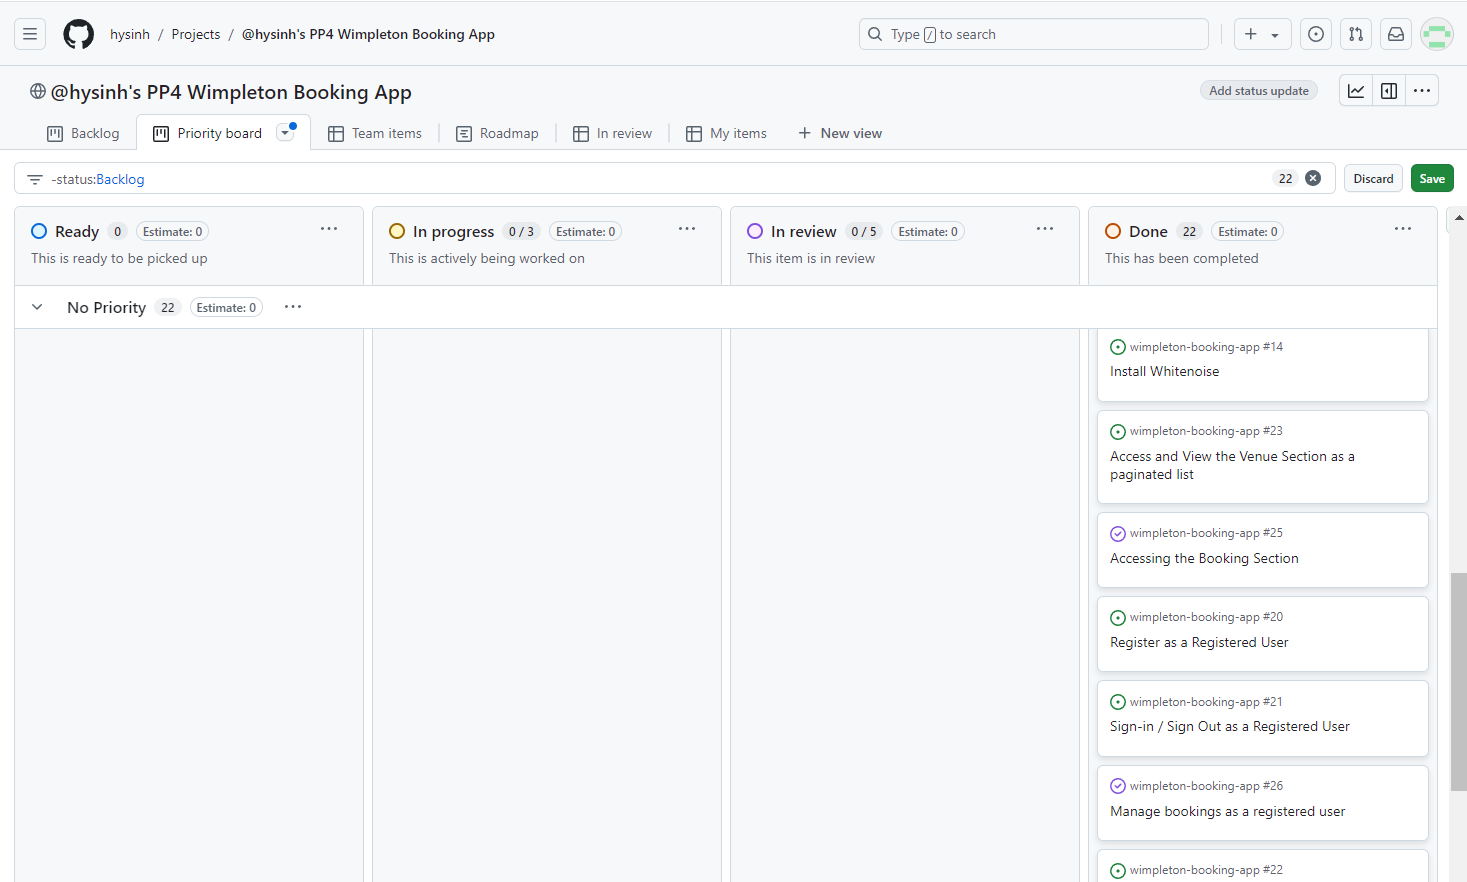
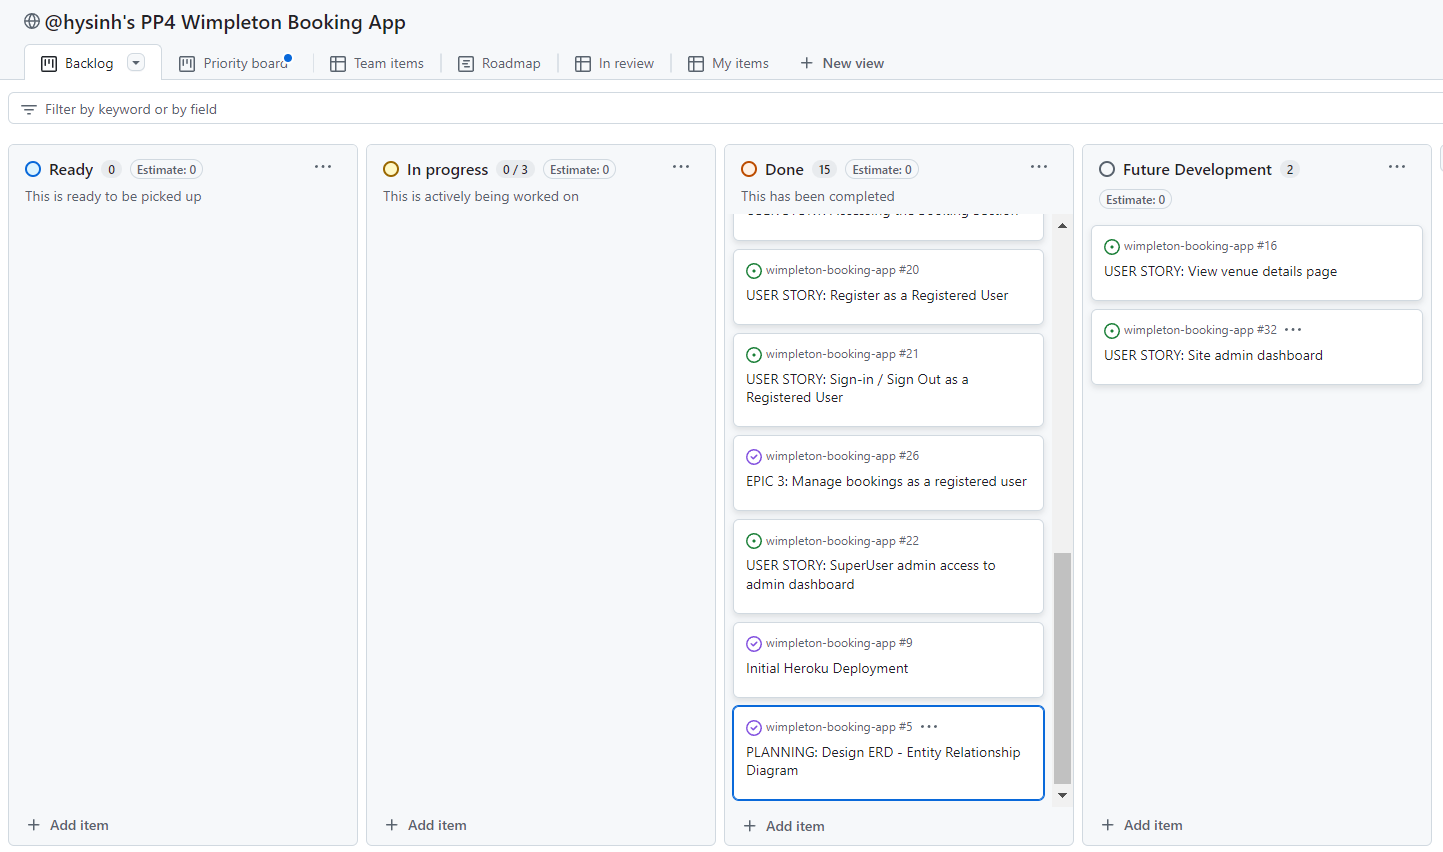
Update agile and issues section of README.md

diff --git a/README.md b/README.md
@@ -9,16 +9,17 @@ Wimpleton House Booking website is a full-stack web application created with HTM
 ## CONTENTS  
   
 * [User Experience](#user-experience)
+  * [Project Goals](#project-goals)
   * [User Stories](#user-stories)
   * [Site Admin Stories](#site-admin-stories)
 * [Agile Methodology](#agile-methodology)
   * [Kanban Board](#kanban-board)
   * [UI Design](#design)
-  * [Flowchart](#flowchart)
+  * [Database Design](#database-design)
 * [Features](#features)
-* [Future Features](#future-features)
+* [Future Development](#future-development)
 * [Technologies](#technologies)
-  * [Languages Used](#languages-used)
+  * [Languages and Libraries Used](#languages-and-libraries-used)
   * [Technologies and Programs Used](#technologies-and-programs-used)
   * [Deployment](#deployment)
 * [Testing](#testing)
@@ -39,7 +40,7 @@ Although some events may be one-off events like a wedding, the estate has a goal
   - Create an admin portal where staff could manage the venues and the bookings of all clients
   - Create a website that was responsive and attractive
 
-- ### Visitor Goal
+- ### Visitor Goals
   As a user, I want to easily view potential venue hire options at the Wimpleton House estate, to create a booking, and to view and manage all my bookings.
 
 - ### User Stories
@@ -66,14 +67,49 @@ Although some events may be one-off events like a wedding, the estate has a goal
 ## Agile Methodology
 The Agile Methodology was the project management approach used for this project. I attempted to break the project into phases and followed a cycle of planning, executing, and evaluating. To be honest, this was probably the most challenging part of the project for two reasons. First, it was the least interesting and enjoyable and secondly, I found it difficult to design effective user stories for the project. Since I was simultaneously writing user stories and trying to learn how to implement a Django web framework, I realised that I didn't know exactly how things would flow and how to ask the right questions to get the results I needed.
 
-As I wrote the stories, everything seemed equally important and dependent on each other. I set a plan for 2 week iterations but I found it difficult to stick to any of these stages as some things went smoothly and other areas, I would get stuck or need to go back and revise things that weren't working properly. Looking back, I think I would redesign the user stories to be broken down into smaller more manageable sections instead of grouping functionality together.
+As I wrote the stories, almost everything seemed equally important and dependent on each other. I set a plan for 2 week iterations or sprints but I found it difficult to stick to any of these stages as some things went smoothly and other areas, I would get stuck or need to go back and revise things that weren't working properly. I found it very difficult to gauge how many story points something would take. Looking back, I think I would redesign the user stories to be broken down into smaller more manageable sections instead of grouping functionality together. Even so, assigning accurate story points to items that I was only designing and implementing for the first time would be challenging.
+
+All issues/user stories began in the Backlog section. As I got to a section, I moved issues from the backlog into the "Ready" section and as I began work on that specific issue, I moved it into the "In progress" section. As issues were resolved, they were moved into the "Done" column.
+
+I also implemented the MoSCoW prioritisation scheme (Must Have, Should Have, Could Have, and Won't Have). However, when attempted to implement this, most of my user stories fell into the "Must have" criteria.
+
+I also found it challenging to organise the EPICs and the user stories effectively in the GitHub Project tool. I tried a couple of different ways, but it got a bit messy. Now that I have tried to utilize this tool for a project, I hope that my next project's Kanban board will go more smoothly and be more clear and effective.
+
 - ### Kanban Board 
-  I used the github projects space to design a [Kanban Board](https://github.com/users/hysinh/projects/5)
+  I used the GitHub Project board to design and manage a [Kanban Board](https://github.com/users/hysinh/projects/5)
   <details >
   <summary>Kanban Board screenshot</summary>  
 
   ![Kanban Board screenshot](documentation/readme/screenshot_kanban.png)
   </details>
+
+- ### Issues
+  I had 18 issues:
+  - 3 Epics:
+    - Research and Planning for app
+    - Set up and Build App and Public Pages
+    - Build CRUD Functionality
+  - Must Haves
+    - Manage bookings as site admin
+    - Manage bookings as a registered user
+    - Create Venue options as site admin
+    - Accessing the booking section
+    - Adding authentication to app
+    - Design the ERD
+    - Planning for application
+    - Initial App Research
+    - Create all the public pages for booking app
+    - Register as a registered user
+    - Sign in and out as a registered user
+    - Access the public pages
+    - Supepruser admin access to admin dashboard
+    - Initial Heroku Deployment
+  - Should Haves
+    - Deletion of Booking confirmation message
+    - Confirmation messages for bookings
+  - Could Haves
+    - Staff dashboard
+    - View venue details page
 
 ### UI Design
   I created some rough wireframes when first planning the website and a flowchart. I had three basic variations with consideration to reponsive design for the mobile, tablet, and desktop layouts. After roughing out what I wanted for the general layouts and content, I created a mockup for the overall look and feel for the site in Adobe Photoshop. I also designed the Entity Relationship Diagrams and considered how each model would interact with the others.
@@ -111,12 +147,13 @@ As I wrote the stories, everything seemed equally important and dependent on eac
   ![color scheme](documentation/readme/screenshot_fontfamilies.png)
   </details>
 
-### Postgres Database / Model Design
-  <details >
-  <summary>Entity Relationship Diagrams</summary>  
+### Database Design
+Custom models were created for Venues, Bookings, and Contacts. A venue can have many bookings. A booking can only have one client and one venue.
+<details >
+<summary>Entity Relationship Diagrams</summary>  
 
-  ![ERDs](documentation/readme/screenshot_ERDs.png)
-  </details>
+![ERDs](documentation/readme/screenshot_ERDs.png)
+</details>
   
 
 
@@ -167,7 +204,7 @@ The About page provides basic information about Wimpleton House and emphasises i
 <details>
 <summary>About page</summary>
 
-![about page](link)
+![about page](documentation/readme/features/screenshot_about.png)
 </details>
 
 ### Contact Page
@@ -175,7 +212,17 @@ The Contact page features basic contact information for the Wimplton House inclu
 <details>
 <summary>Contact Page</summary>
 
-![contact page](link)
+![contact page](documentation/readme/features/screenshot_contact_page.png)
+</details>
+<details>
+<summary>Google Maps</summary>
+
+![contact page](documentation/readme/features/screenshot_contact_map.png)
+</details>
+<details>
+<summary>Contact form</summary>
+
+![contact page](documentation/readme/features/screenshot_contact_contactform.png)
 </details>
 
 ### Booking Dashboard
@@ -378,14 +425,14 @@ If there is a server error, a 500 Error page will display.
   - Photo by Pixabay: https://www.pexels.com/photo/steel-gate-of-brown-brick-building-159490/
   - Photo by Victoria Strelka_ph: https://www.pexels.com/photo/bride-and-groom-walking-towards-the-church-12194355/
 - #### Code resources
-- Getting a json file output of object
-  https://sentry.io/answers/creating-a-json-response-using-django-and-python/
-- Comparing dates - strings vs objects
-  https://stackoverflow.com/questions/15311222/comparing-dates-stored-as-strings-in-django
-- Accessing django properties
-  https://dev.to/doridoro/django-model-properties-28ac
-- How to compare dates in django
-  https://stackoverflow.com/questions/3798812/how-to-compare-dates-in-django-templates
-- 404 custom and 500 pages with handler url
-  https://stackoverflow.com/questions/20581017/django-custom-404-page-not-working
+  - Getting a json file output of object
+    https://sentry.io/answers/creating-a-json-response-using-django-and-python/
+  - Comparing dates - strings vs objects
+    https://stackoverflow.com/questions/15311222/comparing-dates-stored-as-strings-in-django
+  - Accessing django properties
+    https://dev.to/doridoro/django-model-properties-28ac
+  - How to compare dates in django
+    https://stackoverflow.com/questions/3798812/how-to-compare-dates-in-django-templates
+  - 404 custom and 500 pages with handler url
+    https://stackoverflow.com/questions/20581017/django-custom-404-page-not-working
 
